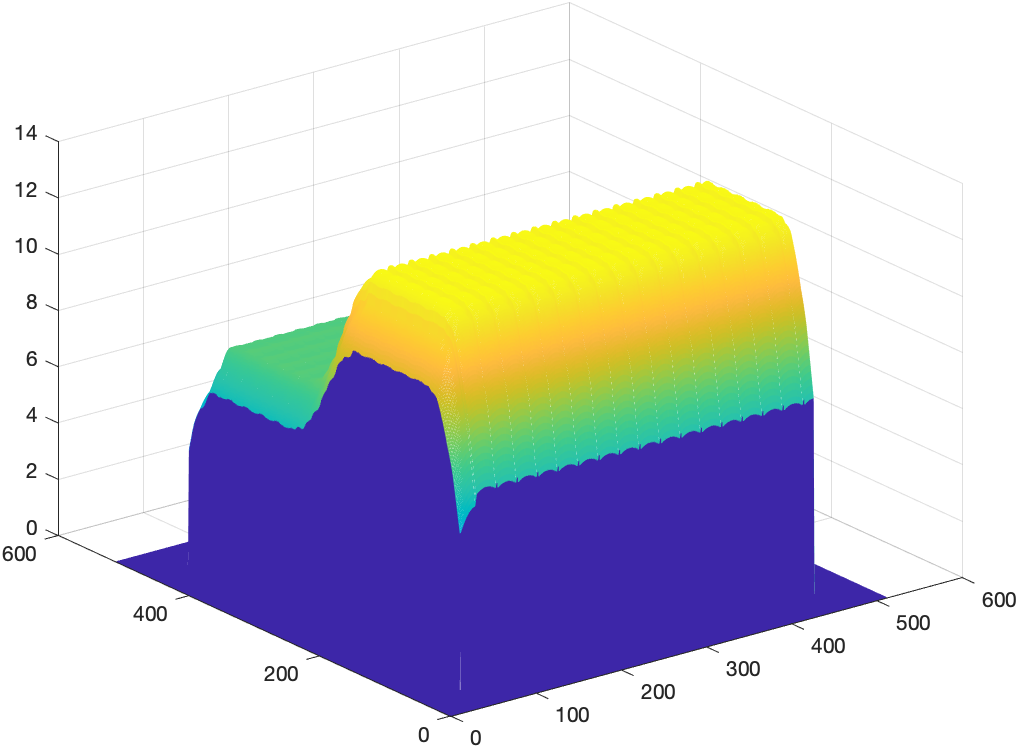
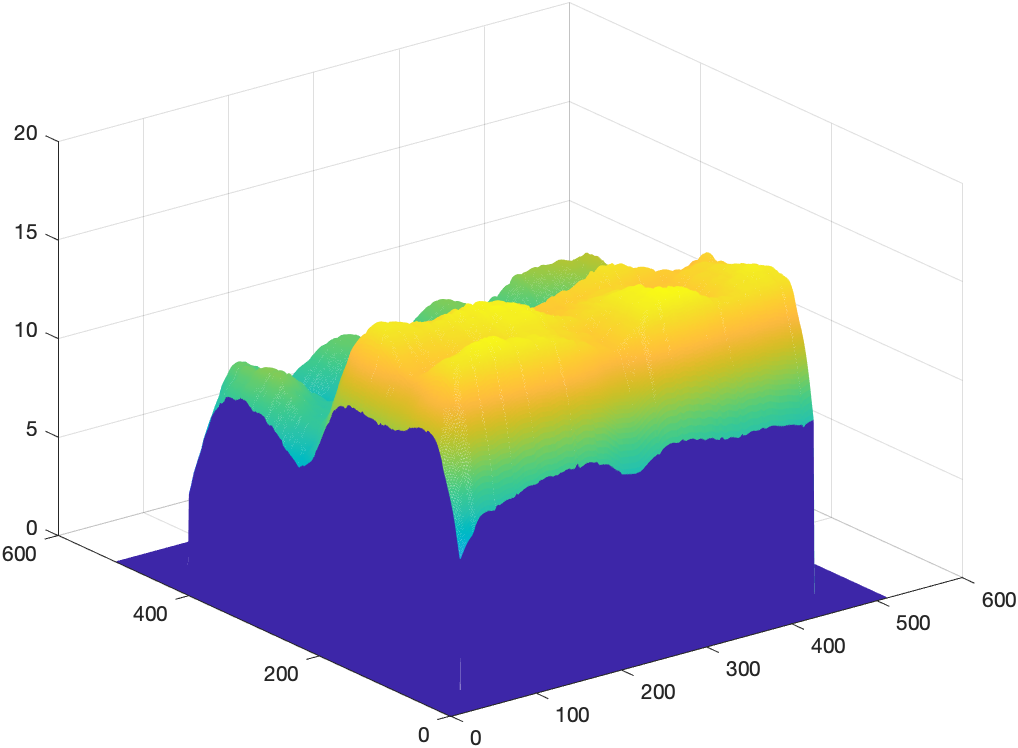
resolved images

diff --git a/project4/main_2.m b/project4/main_2.m
@@ -41,7 +41,7 @@ theta = 0;
 sigma = 24;
 width = 2;
 
-I = imread('texture2.gif');
+I = imread('texture1.gif');
 img=zeros(size(I));
   
 for i=1:size(I,1)
@@ -54,7 +54,7 @@ end
   
 gabor_img = gaborFilter(img,F, sigma, theta, width);
 
-%figure, imshow(gabor_img);
+figure, imshow(gabor_img,[]);
 
 %%smoothen the image
 [gx,gy]=gaussian(24,2);
@@ -62,7 +62,6 @@ gabor_img = gaborFilter(img,F, sigma, theta, width);
 i1=convolution(gabor_img,gx,1,24,2);
 i2=convolution(i1,gy,2,24,2);
 
-%figure, imshow(i2);
-
+figure, imshow(i2,[]);
 
 

diff --git a/project4/main_1.m b/project4/main_1.m
@@ -40,7 +40,7 @@ theta = 135;
 sigma = 8;
 width = 2;
 
-I = imread('texture1.gif');
+I = imread('texture2.gif');
 %img=zeros(size(I));
 img=double(I.*255);
 
